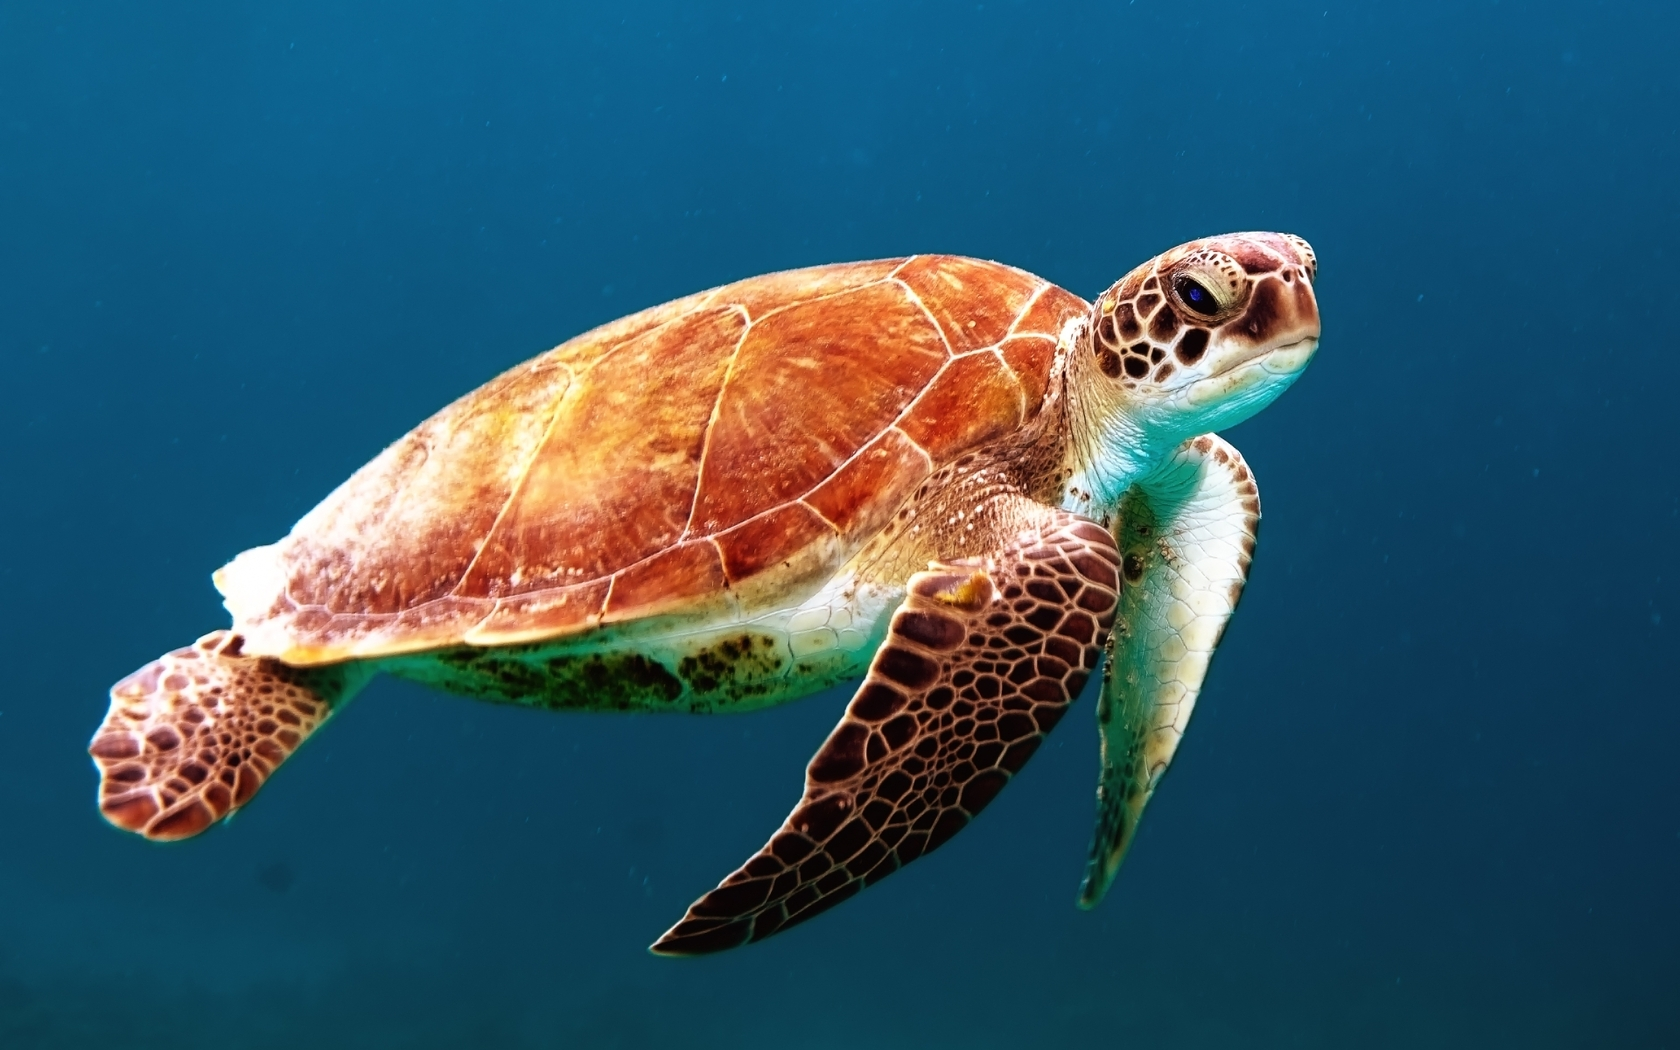
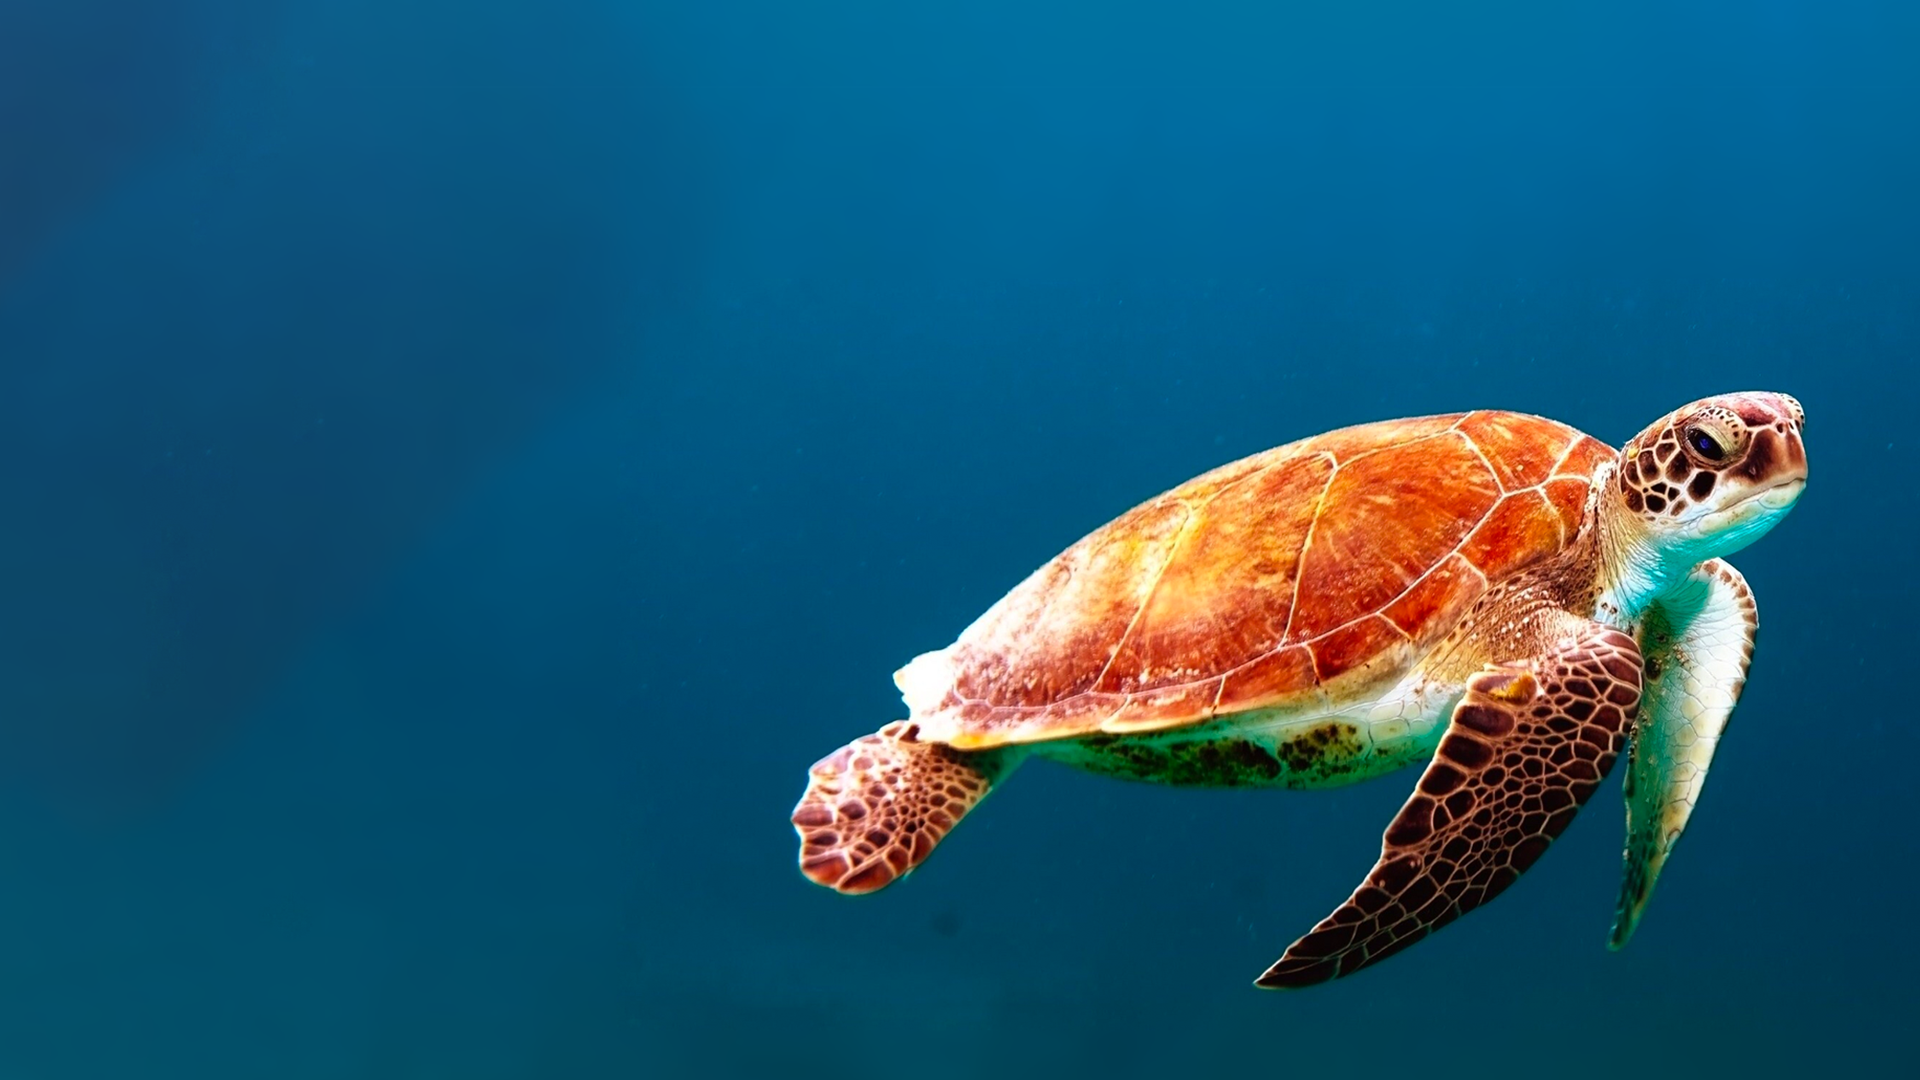
feature: Сделал страницу со словами, реализовал перемешивание карточек

diff --git a/src/components/Word.js b/src/components/Word.js
@@ -1,0 +1,44 @@
+import React, { useState } from 'react';
+import styles from './Word.module.css';
+const DUMMY_WORD = [
+  { russian: 'лошадь', english: 'horse' },
+  { russian: 'машина', english: 'car' },
+  { russian: 'красный', english: 'red' },
+  { russian: 'медведь', english: 'bear' },
+];
+
+function arrayShuffle(array) {
+  if (!Array.isArray(array)) {
+    throw new TypeError(`Expected an array, got ${typeof array}`);
+  }
+
+  array = [...array];
+
+  for (let index = array.length - 1; index > 0; index--) {
+    const newIndex = Math.floor(Math.random() * (index + 1));
+    [array[index], array[newIndex]] = [array[newIndex], array[index]];
+  }
+  console.log(array);
+  return array;
+}
+
+const Word = () => {
+  const [wordArray, setWordArray] = useState(DUMMY_WORD);
+
+  const shuffleWordHandler = () => {
+    setWordArray(arrayShuffle(DUMMY_WORD));
+  };
+
+  return (
+    <div className={styles.container}>
+      <header></header>
+      <div className={styles.wrapper}>
+        <p className={styles.word_main}>{wordArray[0].russian}</p>
+        <p className={styles.word_main}>{wordArray[0].english}</p>
+      </div>
+      <button onClick={shuffleWordHandler}>Next</button>
+    </div>
+  );
+};
+
+export default Word;

diff --git a/src/pages/Welcome.module.css b/src/pages/Welcome.module.css
@@ -4,16 +4,24 @@ h1 {
   font-size: 4.5em;
   padding-left: 1.5em;
   padding-top: 0.3em;
-  margin-bottom: 9em;
+
 }
 
 .link {
-  background-color: rgba(18, 228, 193, 0.5);
-  color: azure;
-  padding: 0.3em 2em;
+  background-color: rgba(255, 255, 255, 1);
+  color:#0c547f;
+  padding: 0.3em 0.7em 0.3em 0.7em;
   text-decoration: none;
-  font-family: 'Libre Baskerville', serif;
+  font-family: 'Playfair Display', serif;
   font-size: 2em;
-  border-radius: 17px;
-  margin-left: 40%;
+  margin-left: 6%;
+  border-radius: 10px;
+}
+
+.link span {
+  padding-left: 25px;
+}
+.link:hover {
+  font-size: 2.2em;
+  background-color: rgba(255, 255, 255, 0.8);
 }

diff --git a/src/components/Word.module.css b/src/components/Word.module.css
@@ -1,0 +1,34 @@
+header {
+    height: 42px;
+    background-color: orange;
+    border-radius: 6px 6px 0 0;
+    font-size: 14px;
+    
+}
+
+.container {
+    display: block;
+    margin-top: 20vh;
+    width: 50vw;
+    margin-left: auto;
+    margin-right: auto;
+}
+
+.wrapper {
+    display: flex;
+    flex: 1;
+    flex-direction: column;
+    justify-content: center;
+    background-color: white;
+}
+
+.word_main {
+    display: flex;
+    flex: 1;
+    flex-direction: column;
+    justify-content: center;
+    font-size: 2em;
+    align-items: center;
+    padding-top: 1em;
+    padding-bottom: 1em;
+}

diff --git a/public/index.html b/public/index.html
@@ -6,6 +6,7 @@
     <link rel="preconnect" href="https://fonts.googleapis.com">
     <link rel="preconnect" href="https://fonts.gstatic.com" crossorigin>
     <link href="https://fonts.googleapis.com/css2?family=Libre+Baskerville&display=swap" rel="stylesheet">
+    <link href="https://fonts.googleapis.com/css2?family=Playfair+Display&display=swap" rel="stylesheet">
     <meta name="viewport" content="width=device-width, initial-scale=1" />
     <meta name="theme-color" content="#000000" />
     <meta

diff --git a/src/pages/Words.js b/src/pages/Words.js
@@ -1,12 +1,11 @@
-import NewWord from '../components/NewWord';
+import Word from '../components/Word';
+import React from 'react';
 
 const Words = () => {
   return (
-    <>
-      <div></div>
-      <div></div>
-      <NewWord />
-    </>
+    <React.Fragment>
+      <Word />
+    </React.Fragment>
   );
 };
 

diff --git a/src/pages/Welcome.js b/src/pages/Welcome.js
@@ -6,7 +6,7 @@ const Welcome = () => {
     <>
       <h1 className={styles}>Remember ME</h1>
       <Link to='/words' className={styles.link}>
-        Let's start
+        LET'S START <span>&#129042;</span>
       </Link>
     </>
   );

diff --git a/src/App.css b/src/App.css
@@ -1,4 +1,4 @@
 body {
-  background-image: url("./layout/main-background3.jpg");
+  background-image: url("./layout/main-background5.jpg");
   background-size: 100%;
 }
